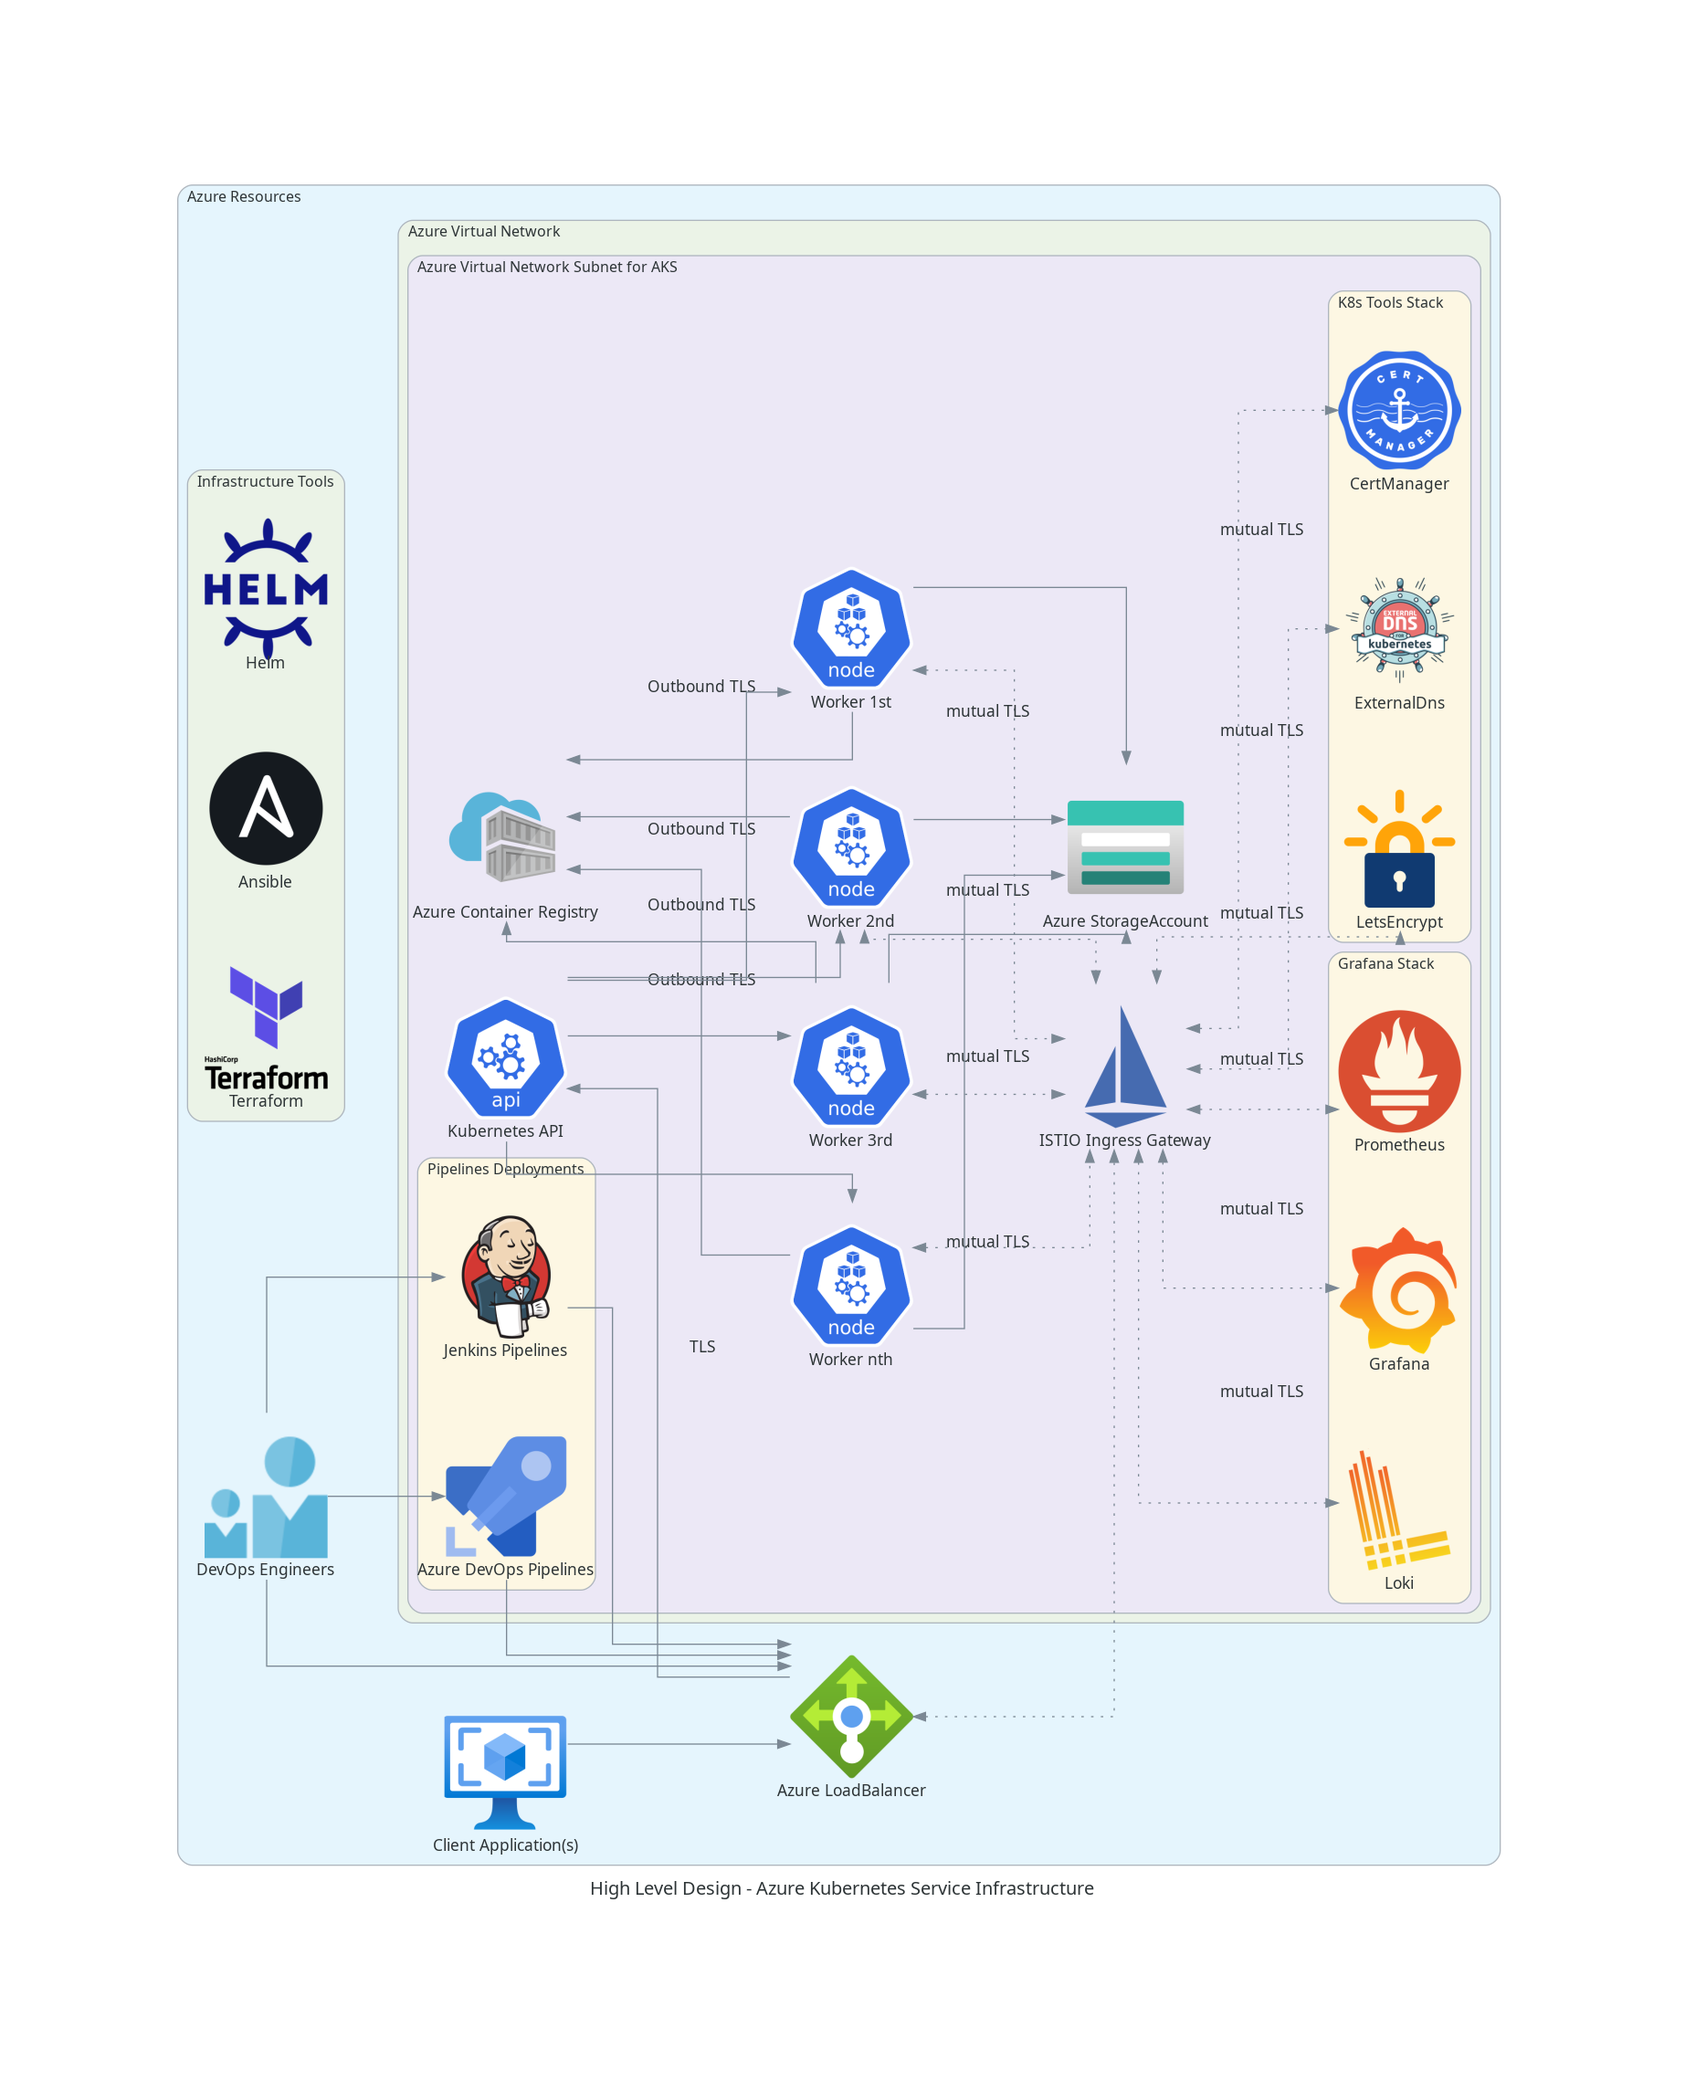
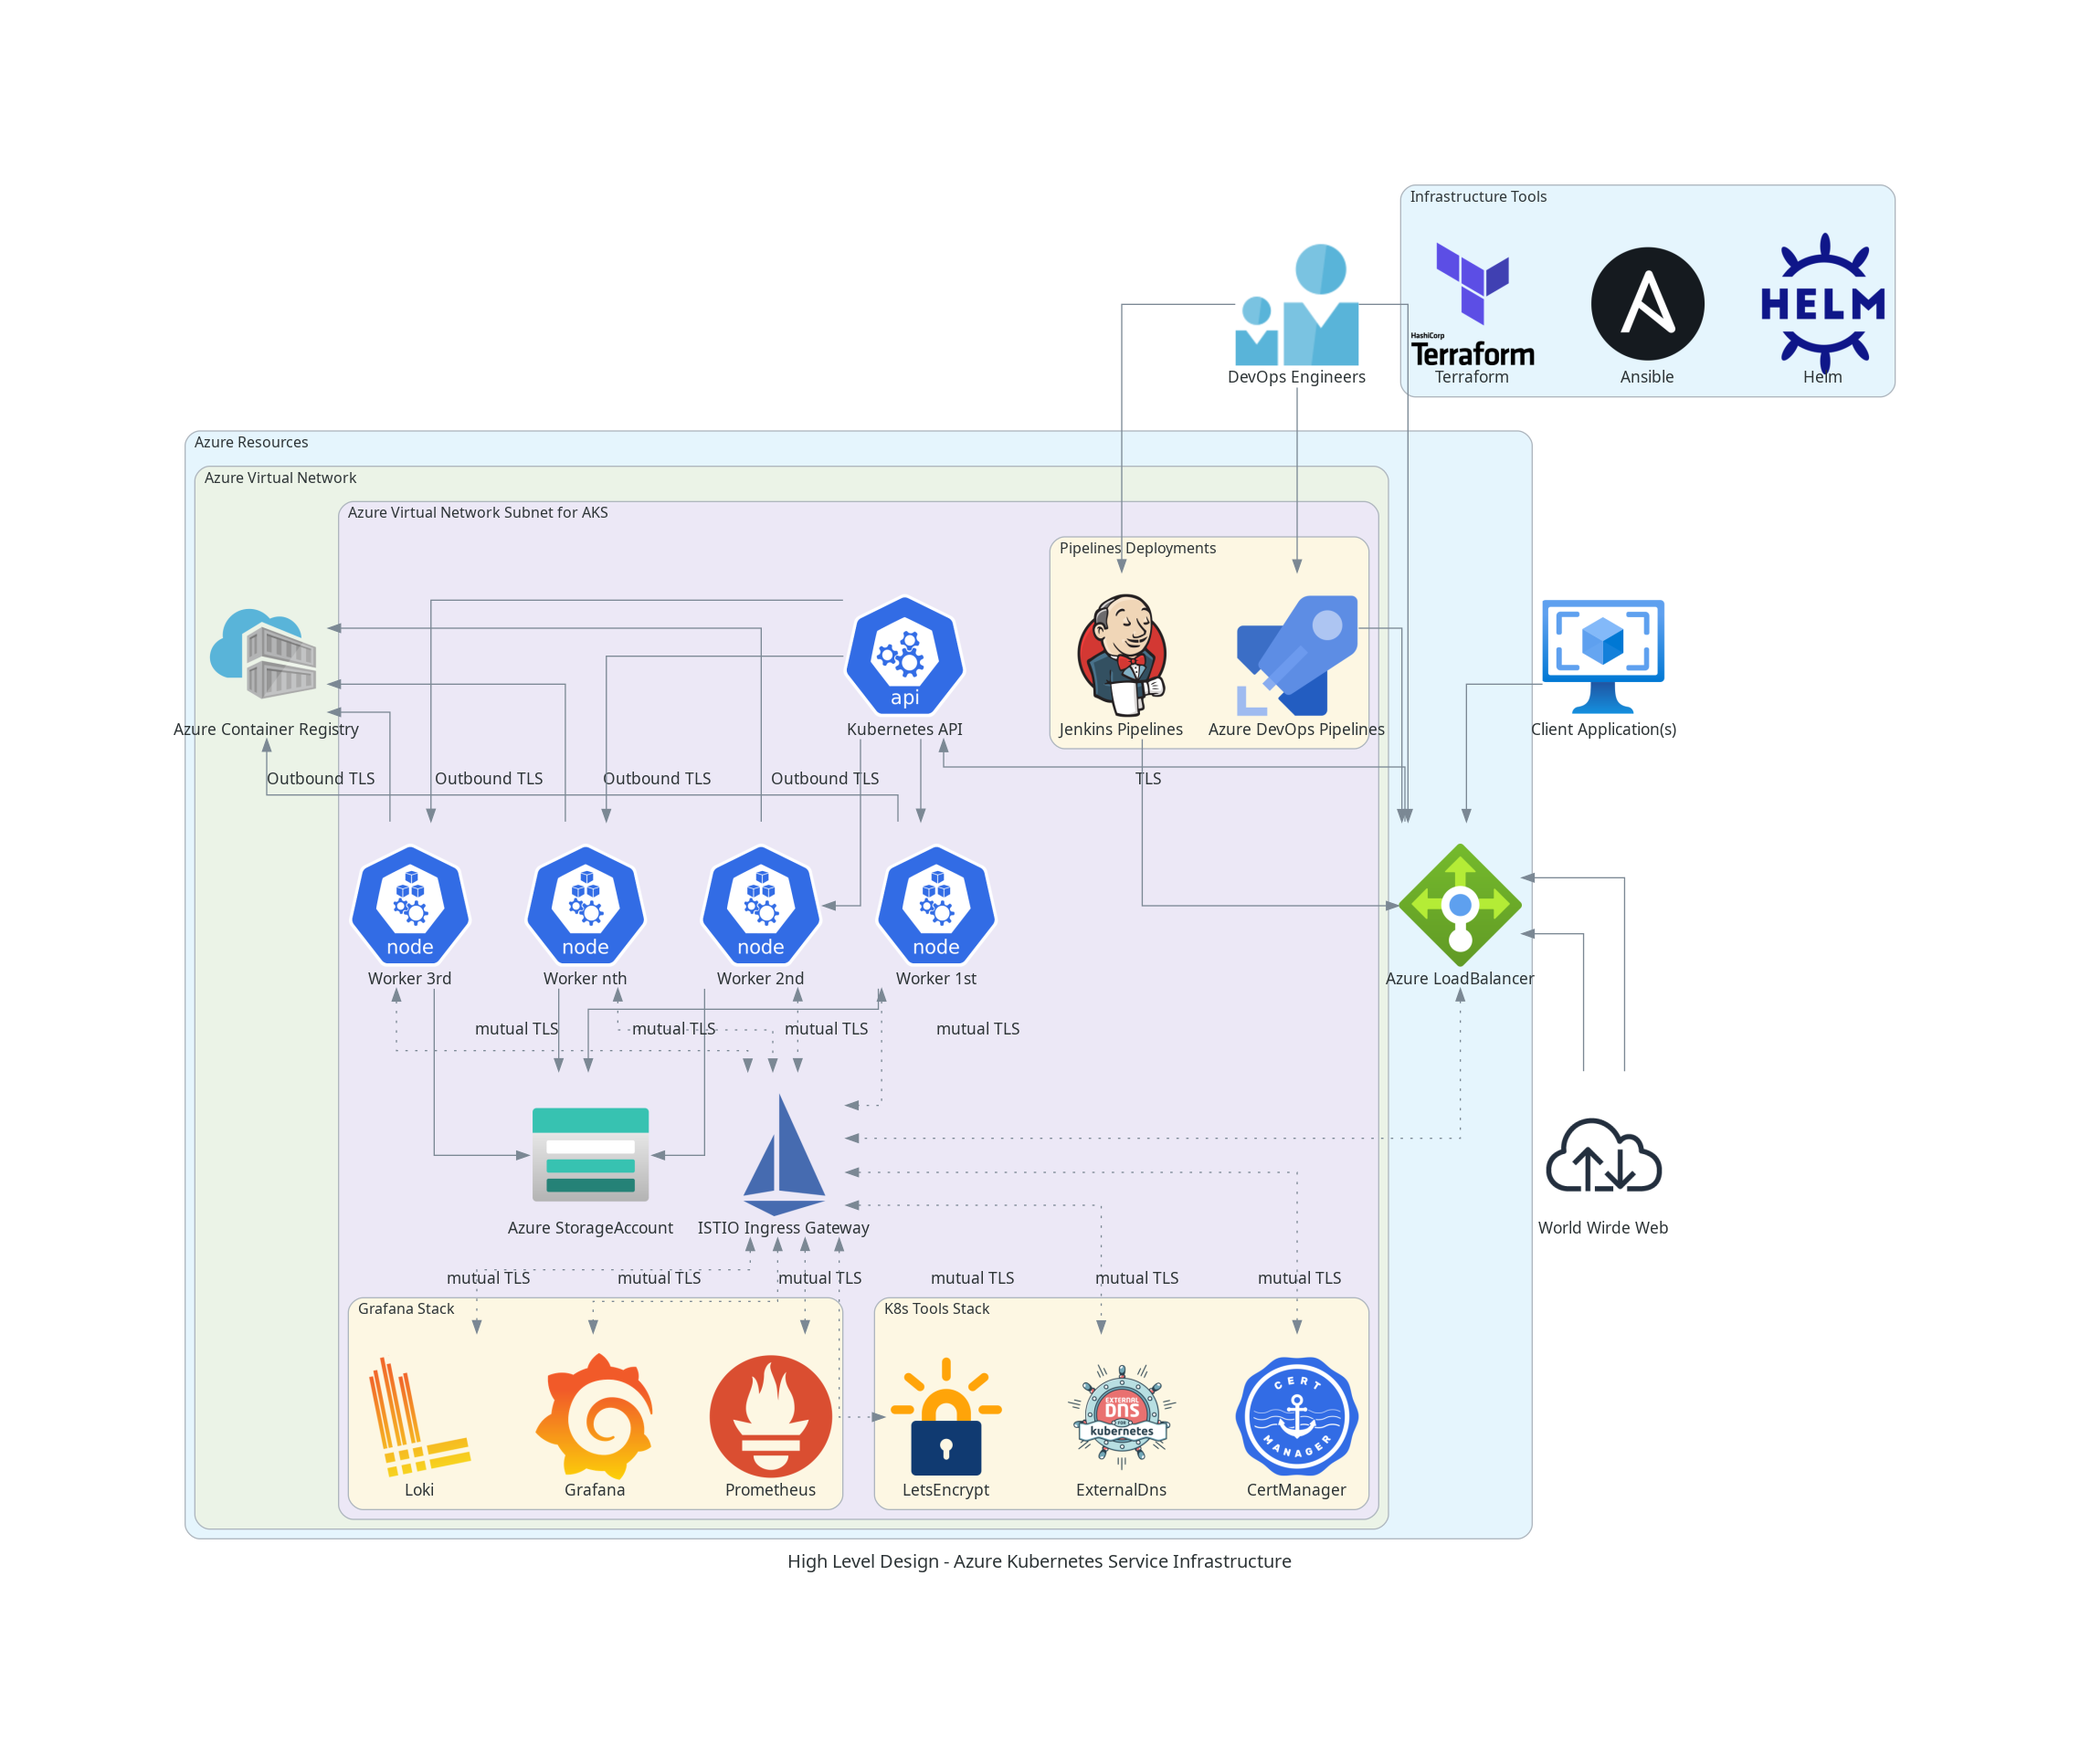
Updating IaC for AKS adding internet.

Changed region(s): [[0.0618, 0.0625, 0.9268, 0.9058], [0.3398, 0.3436, 0.3707, 0.3748]]

diff --git a/IaCaKs/HLD/hldAzureKubernetesService.py b/IaCaKs/HLD/hldAzureKubernetesService.py
@@ -1,7 +1,6 @@
 from diagrams.k8s.infra import Node
 from diagrams.onprem.ci import Jenkins
 from diagrams.onprem.logging import Loki
-from diagrams.onprem.network import Istio
 from diagrams.k8s.controlplane import API
 from diagrams import Diagram, Cluster, Edge
 from diagrams.azure.devops import Pipelines
@@ -9,6 +8,7 @@ from diagrams.azure.compute import OsImages
 from diagrams.azure.general import Twousericon
 from diagrams.onprem.iac import Terraform, Ansible
 from diagrams.azure.storage import StorageAccounts
+from diagrams.onprem.network import Internet, Istio
 from diagrams.k8s.ecosystem import ExternalDns, Helm
 from diagrams.azure.compute import ContainerRegistries
 from diagrams.onprem.monitoring import Prometheus, Grafana
@@ -17,20 +17,25 @@ from diagrams.azure.network import PublicIpAddresses, LoadBalancers
 
 with (((Diagram("High Level Design - Azure Kubernetes Service Infrastructure",
                 show=False,
-                # direction="TB",
+                direction="TB",
                 filename="hldAzureKubernetesService",
                 graph_attr={"bgcolor": "transparent"})))):
-    with Cluster("Azure Resources"):
-        devopsEngineers = Twousericon("DevOps Engineers")
-        cliApplications = OsImages("Client Application(s)")
-        azureLoadBalancer = LoadBalancers("Azure LoadBalancer")
+    publicWeb = Internet("World Wirde Web")
+    devopsEngineers = Twousericon("DevOps Engineers")
+    cliApplications = OsImages("Client Application(s)")
 
-        with Cluster("Infrastructure Tools"):
-            infraTools = [Helm("Helm"),
-                          Ansible("Ansible"),
-                          Terraform("Terraform")]
+    with Cluster("Infrastructure Tools"):
+        infraTools = [Helm("Helm"),
+                      Ansible("Ansible"),
+                      Terraform("Terraform")]
+
+    with Cluster("Azure Resources"):
+        azureLoadBalancer = LoadBalancers("Azure LoadBalancer")
+        publicWeb >> azureLoadBalancer << publicWeb
 
         with Cluster("Azure Virtual Network"):
+            azureContainerRegistry = ContainerRegistries("Azure Container Registry")
+
             with Cluster("Azure Virtual Network Subnet for AKS"):
                 workerNodes = [Node("Worker 3rd"),
                                Node("Worker 2nd"),
@@ -51,7 +56,6 @@ with (((Diagram("High Level Design - Azure Kubernetes Service Infrastructure",
                     pipelineDeployments = [Jenkins("Jenkins Pipelines"),
                                            Pipelines("Azure DevOps Pipelines")]
 
-                azureContainerRegistry = ContainerRegistries("Azure Container Registry")
                 apiControlplane = API("Kubernetes API")
                 istioGateway = Istio("ISTIO Ingress Gateway")
                 storageAccount = StorageAccounts("Azure StorageAccount")
